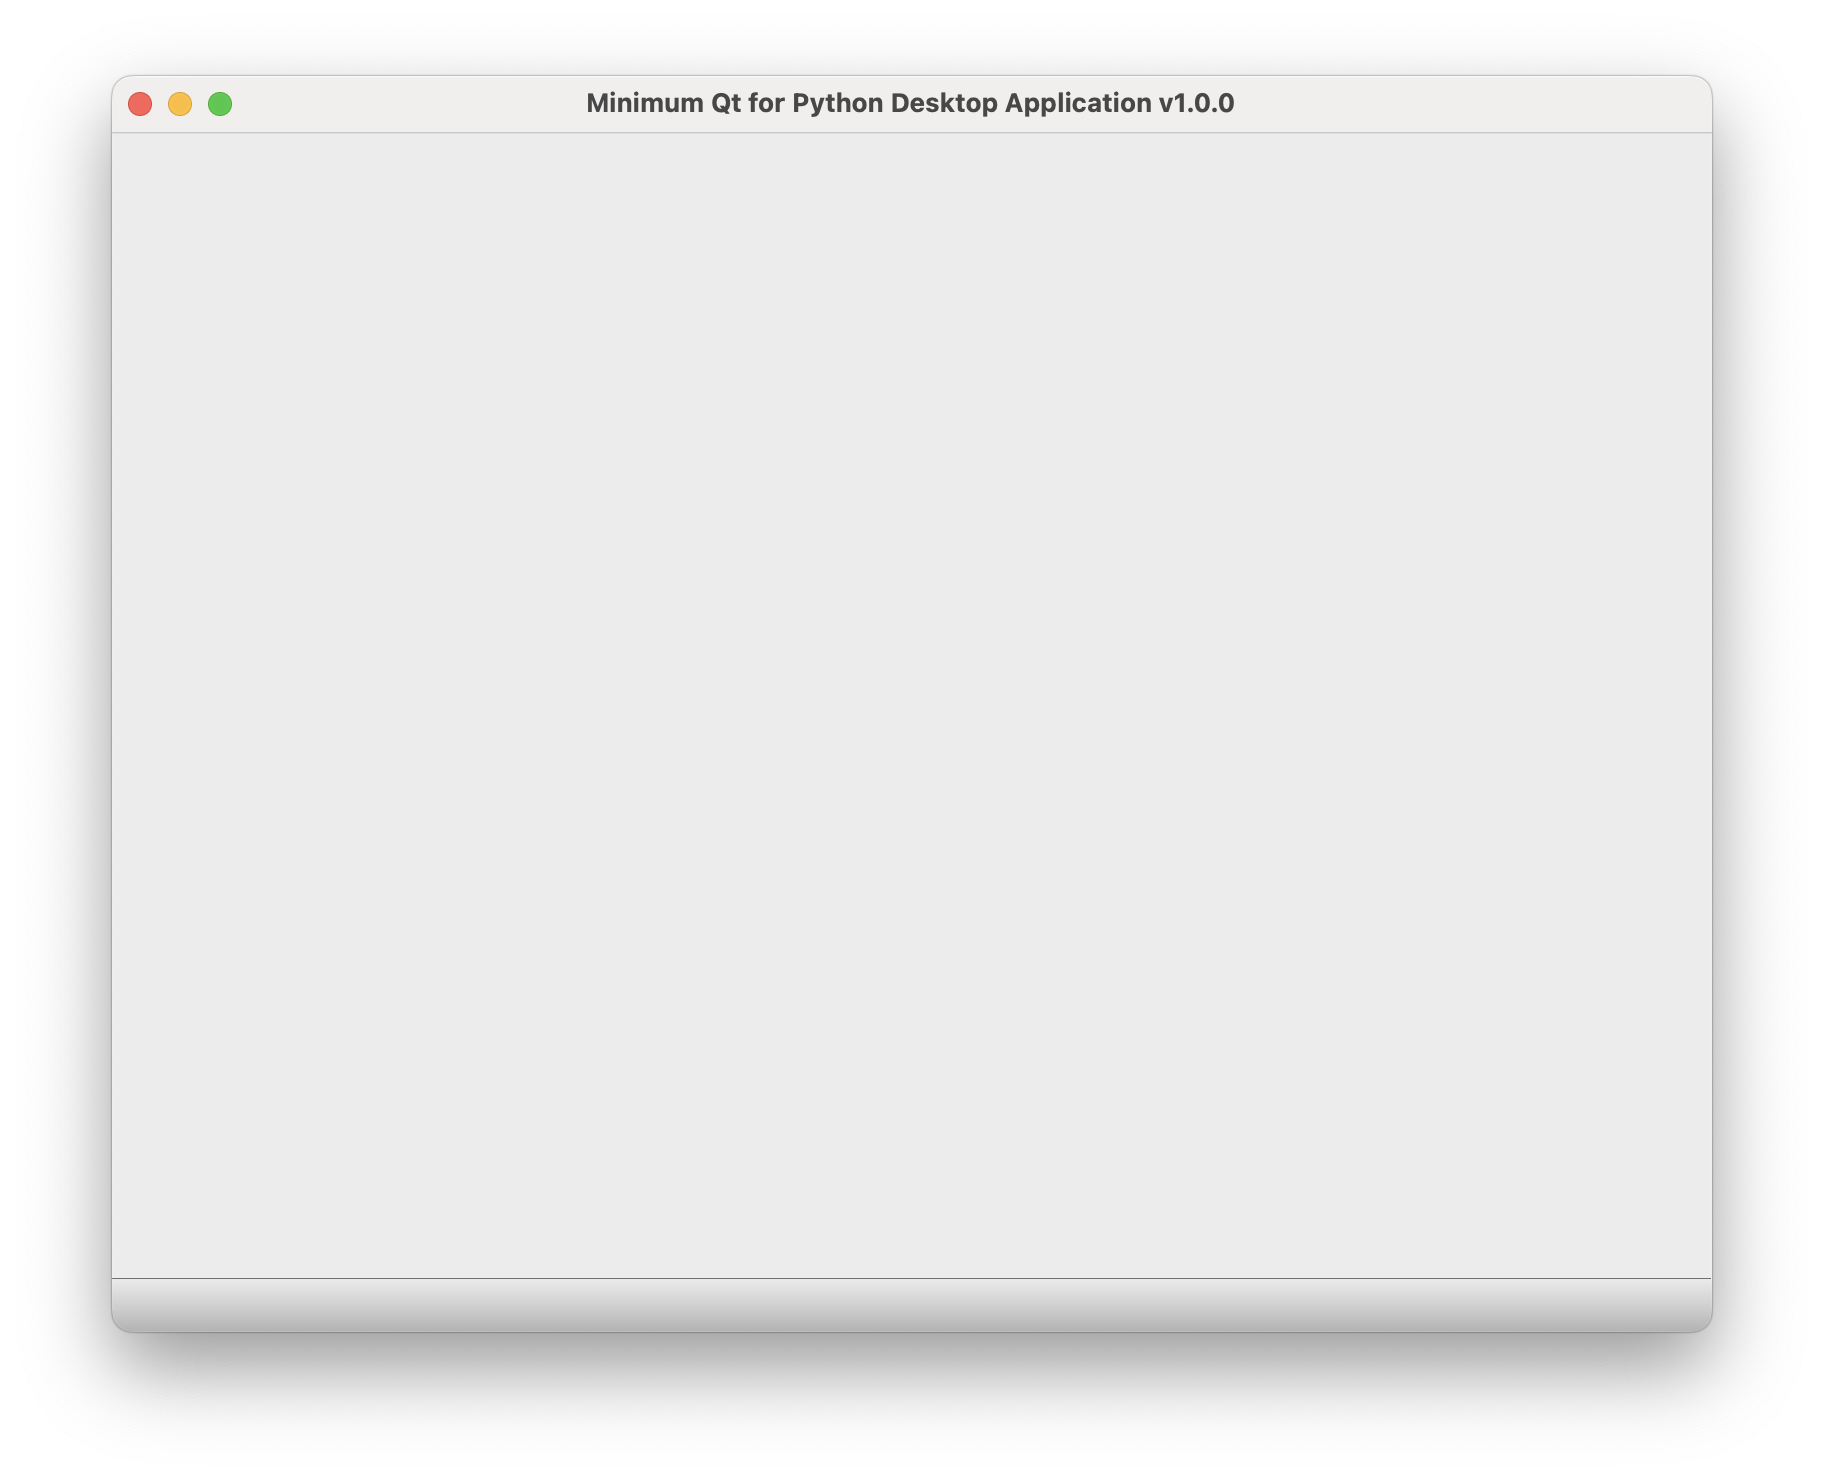
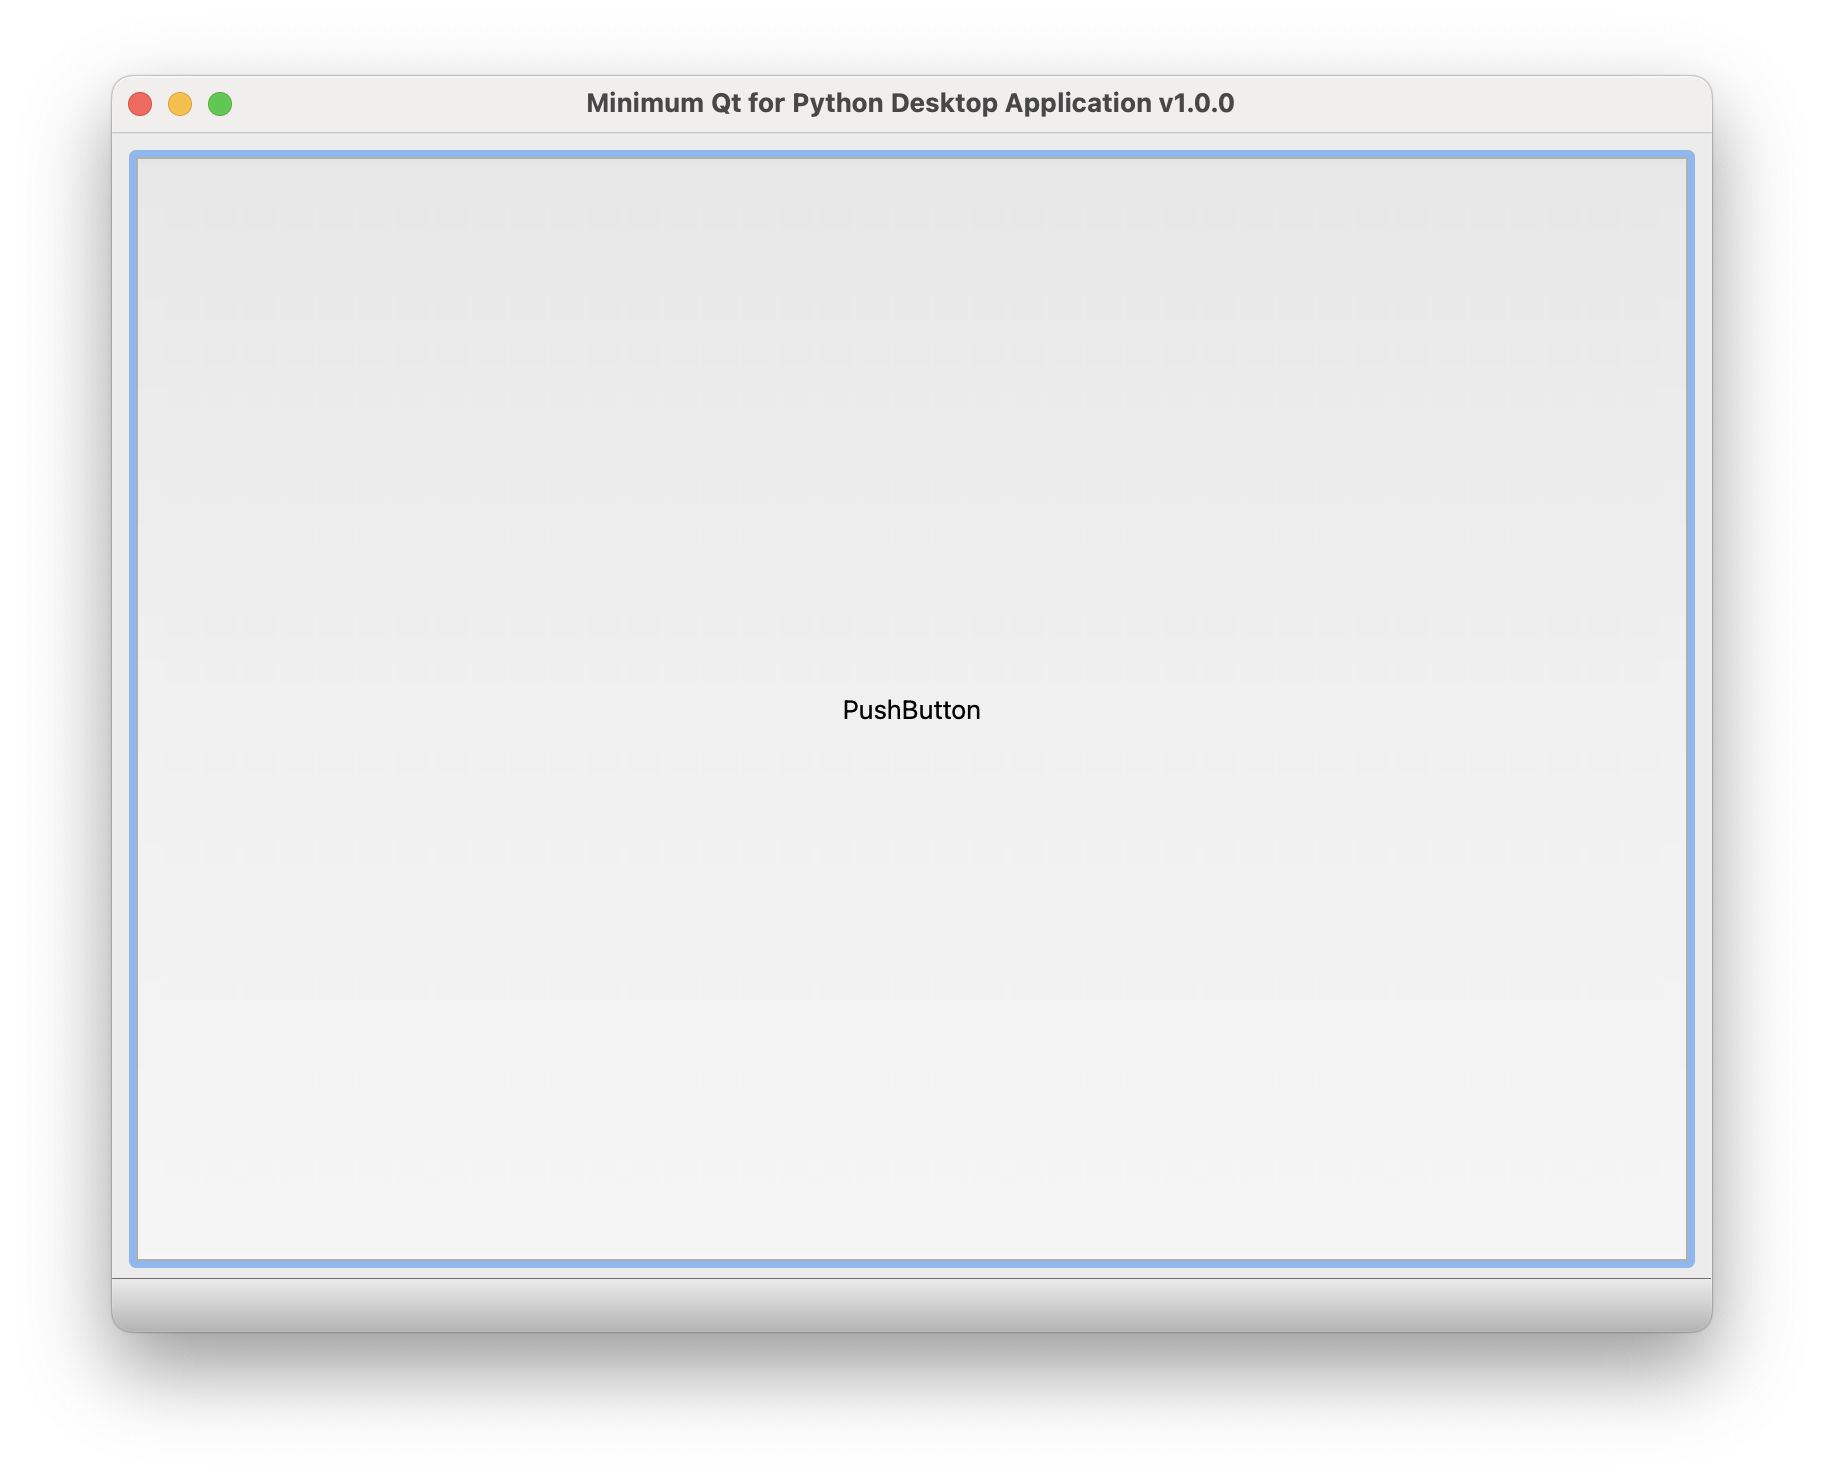
Demonstrate how to get the component from the Qt Designer UI file

Changed region(s): [[0.0625, 0.0932, 0.9375, 0.8703], [0.4688, 0.4662, 0.5312, 0.4973]]

diff --git a/src/minimum_qt_for_python_desktop_application_demo_desktop/ui/main_window.py b/src/minimum_qt_for_python_desktop_application_demo_desktop/ui/main_window.py
@@ -1,6 +1,6 @@
 import minimum_qt_for_python_desktop_application_demo as sdk
 from PySide6.QtGui import QCloseEvent
-from PySide6.QtWidgets import QMainWindow
+from PySide6.QtWidgets import QMainWindow, QPushButton
 
 
 class QMainWindowExt(QMainWindow):
@@ -11,3 +11,11 @@ class QMainWindowExt(QMainWindow):
     def set_up(self) -> None:
         sdk.get_logger().info("Setting up")
         self.setWindowTitle(f"Minimum Qt for Python Desktop Application v{sdk.VERSION}")
+
+        # The following line is optional. This is only for the IDE to recognize the push_button attribute.
+        self.push_button: QPushButton = getattr(self, 'push_button')
+
+        self.push_button.clicked.connect(self.on_push_button_clicked_listener)
+
+    def on_push_button_clicked_listener(self, checked: bool) -> None:
+        sdk.get_logger().info(f"Push button clicked, checked: {checked}")

diff --git a/README.md b/README.md
@@ -90,6 +90,8 @@ pdm install
 
 8. Demonstrate how to hook the UI building
 
+9. Demonstrate how to get the component from the Qt Designer UI file
+
 ## License
 
 [Mozilla Public License Version 2.0](https://www.mozilla.org/en-US/MPL/2.0/)
